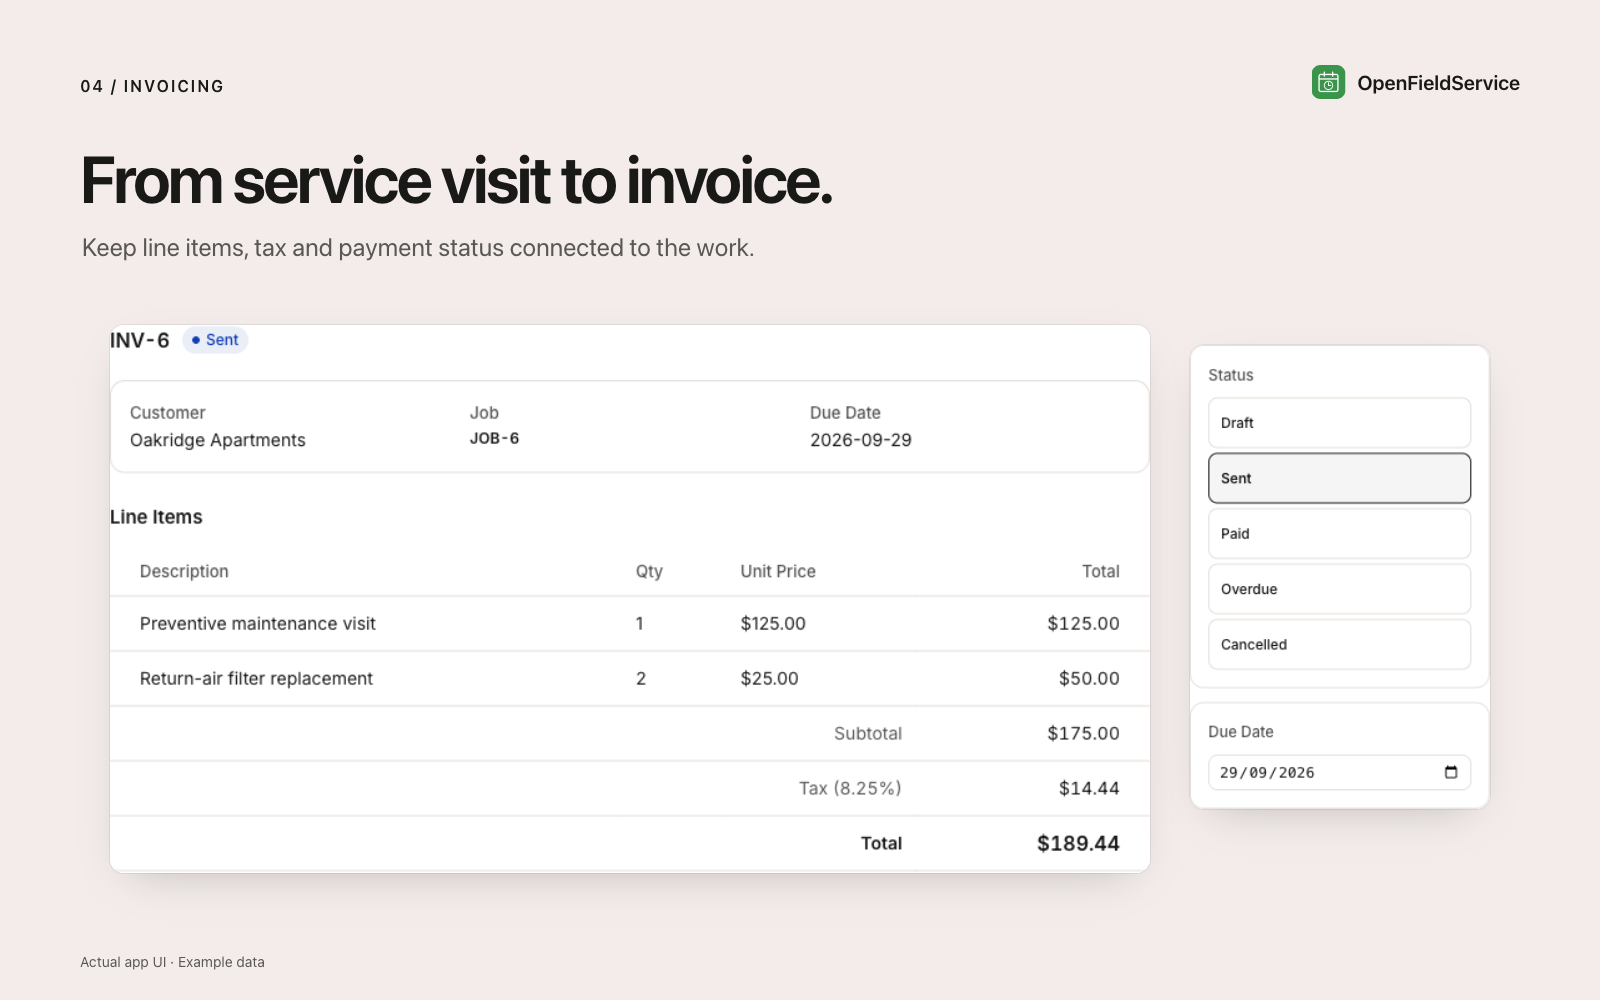
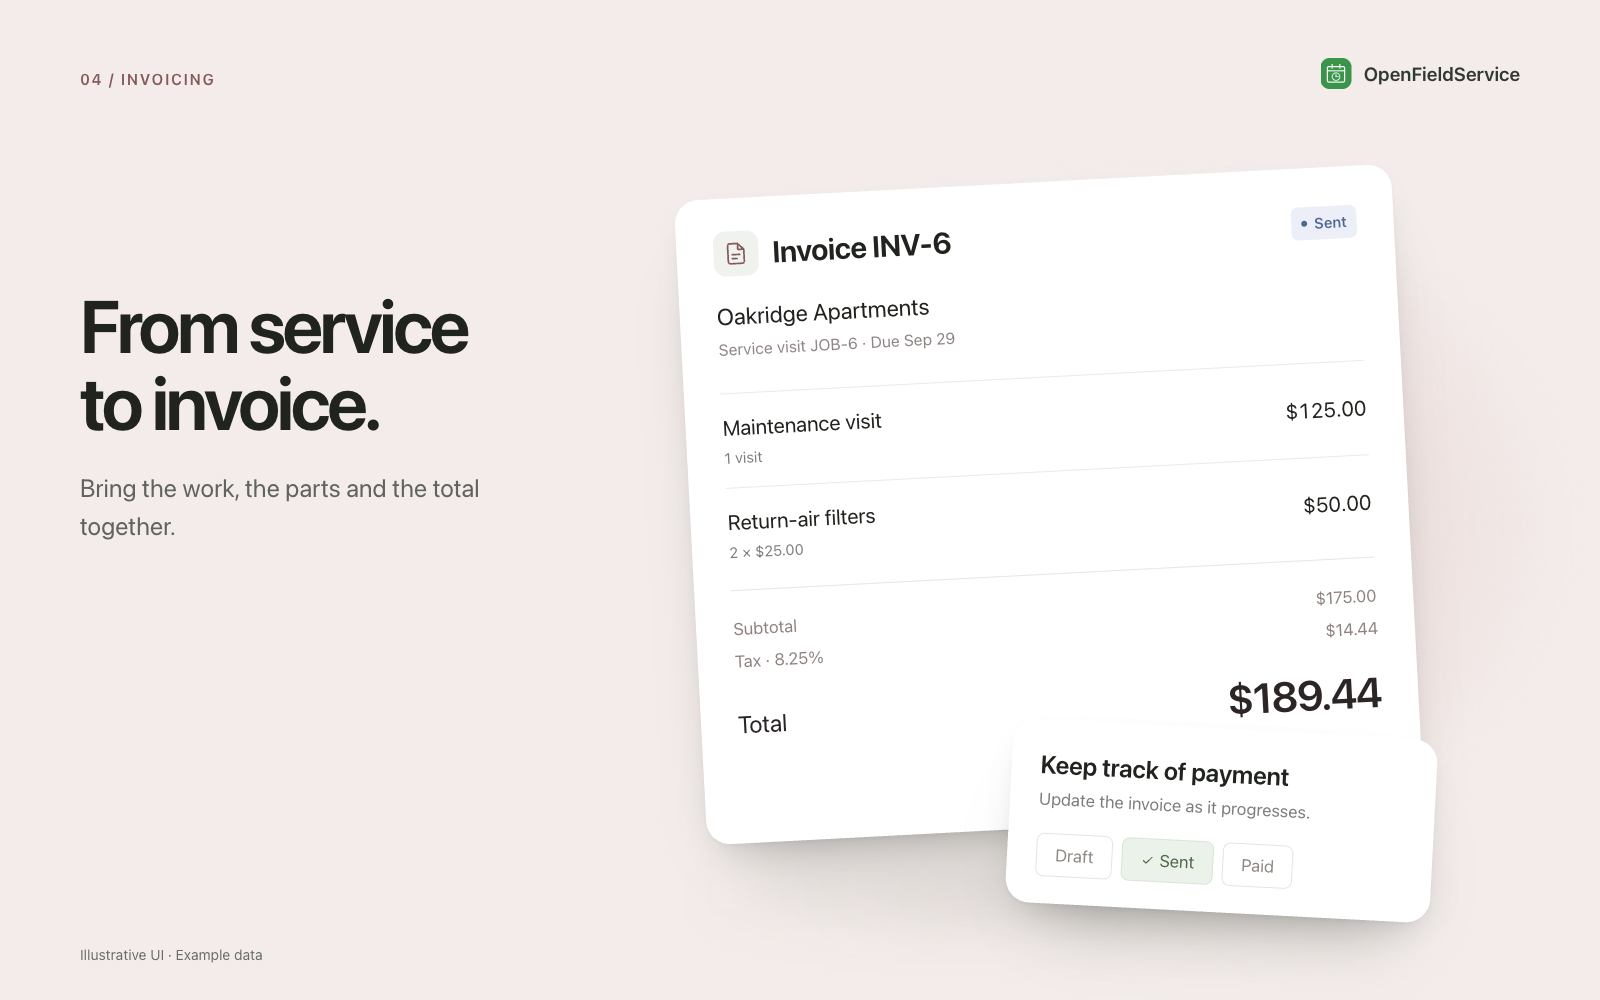
Recreate feature previews as overlapping conceptual UI illustrations

diff --git a/screenshots/README.md b/screenshots/README.md
@@ -1,8 +1,9 @@
 # App screenshots and preview assets
 
 The source is the running app. Save screenshots here first; select one for the
-README cover and compose feature cards from its real UI. Website previews use
-these assets directly, without trying to recover a screenshot from a banner.
+README cover. Recreate conceptual feature illustrations in HTML/CSS/SVG, using
+the screenshots and app code as references. The website carousel uses the
+illustrations directly.
 
 Captured with TaskWindow on 15 September 2026 using a separate local database
 and fictional customers. Desktop: 1440×960; mobile: 390×844. Job and customer
@@ -25,16 +26,21 @@ details use full-page captures so content below the fold is preserved.
 ## What controls the output
 
 - [manifest.json](manifest.json): screenshot routes, dimensions, themes,
-  captions, cover selection, feature crop rectangles and carousel order.
-- [../previews/](../previews/): four 1600×1000 feature cards composed from saved
-  UI crops. Headlines are editorial; the pictured controls and data are real.
+  captions, cover selection, feature reference ids, illustration metadata and carousel order.
+- [../previews/](../previews/): four 1600×1000 conceptual feature illustrations. The UI is
+  recreated with enlarged labels, simplified content, softly lit backgrounds
+  and slightly overlapping floating panels. These are illustrative views of
+  existing capabilities, not literal application screens.
 - [../readme-banner.png](../readme-banner.png) and
   [dark variant](../readme-banner-dark.png): 1600×1000 covers, selected through
   `cover.light` and `cover.dark`. README uses a theme-aware `<picture>`.
 - [../previews/website-gallery.json](../previews/website-gallery.json): ordered
   image data with `src`, `alt`, `caption`, `width` and `height` for the website.
+- [../scripts/feature-concepts.mjs](../scripts/feature-concepts.mjs): reusable
+  HTML/CSS/SVG source for each conceptual UI composition. Feature PNGs contain
+  no embedded screenshots.
 - [../scripts/build-previews.mjs](../scripts/build-previews.mjs): validates PNG
-  sizes and crop bounds, builds HTML compositions, imports TaskWindow captures,
+  sizes and reference ids, builds HTML compositions, imports TaskWindow captures,
   and rejects stale outputs using hashes of the composition and saved PNG.
 
 ## Recapture safely
@@ -73,8 +79,12 @@ manifest describe the original capture; use the new routes when recapturing.
 4. Review every screenshot, including table edges and below-fold content.
    Update manifest dates, source revision, routes and actual PNG dimensions.
    Never replace customer data in the DOM to invent a feature.
-5. Update crop rectangles if the source layout changed. Keep full screenshots
-   intact. Crops must retain legible context and must not imply missing features.
+5. Keep raw screenshots intact. Update the feature illustrations in
+   `scripts/feature-concepts.mjs` as capabilities change. Focus each image on
+   one relatable task, with large readable labels and at most two related
+   floating panels. Overlap their edges slightly; leave key content visible.
+   Use layers, soft shadows and background colour to integrate the panels.
+   Keep the “Illustrative UI” label and do not imply unbuilt features.
 
 ## Build the cover and feature cards
 
@@ -95,7 +105,7 @@ pnpm previews:check
 ```
 
 `import` validates dimensions and records the rendered composition's hash.
-After changing source screenshots, the icon, cover choice or composition,
+After changing source screenshots, the icon, cover choice or conceptual illustration,
 rebuild and recapture the affected outputs. `check` catches stale or missing
 PNGs. Review the images visually as well; a hash does not prove a good capture.
 `.preview-build/` is disposable, ignored by Git and outside the shipped app.
@@ -115,8 +125,9 @@ const images = gallery.map(image => ({
 
 These objects match the current website's `AppImage` shape. Omit `bannerTop`:
 these are standalone images. Use `object-fit: contain` and the supplied aspect
-ratio to show the whole composition. Feature cards lead the carousel; full UI
-screens follow. Dark and mobile captures stay in the source gallery as variants.
+ratio to show the whole composition. The carousel contains the four conceptual
+feature illustrations. Full screenshots, dark and mobile captures remain in
+the source gallery as documentation and cover references.
 Copy assets at build time or use a pinned Git commit URL so an app update does
 not silently change a published website. Lazy-load slides after the first.
 

diff --git a/README.md b/README.md
@@ -13,7 +13,7 @@ Built with **Preact + Hono + SQLite**. Ships with a clean dashboard UI, weekly c
 
 ## See it in action
 
-Real app screens with fictional example data. Open an image to see the details.
+Conceptual UI illustrations of the app’s main capabilities, with fictional example data. Open an image to see the details.
 
 | Dispatch | Job checklists & materials |
 | --- | --- |
